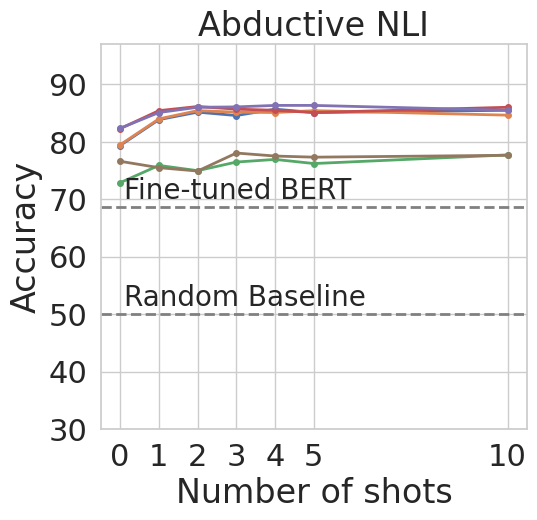
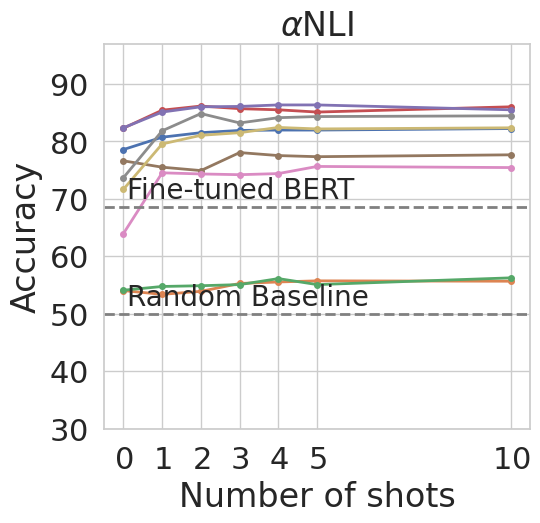
add mistral/gemma + fixes to text

Changed region(s): [[0.0, 0.0, 0.9832, 0.9846]]

diff --git a/results.tex b/results.tex
@@ -15,7 +15,7 @@ We present results for three major settings:
 With the goal to get an overall estimate of the difficulty of the task and the extent to which it can discriminate models, we first consider the performance of fully pre-trained models from the respective model series.
 For each of the models, we compute results with variable number of shots.
 We report the results in \cref{fig:shot_performance}, along with a chance baseline and the results of a fine-tuned BERT model.
-For all models, we observe rather poor zero-shot performance for all tasks, except AbductiveNLI, confirming previously reported results by \citet{ohmer2024form} and \citet{weber-etal-2023-mind}, among others.
+For all models, we observe rather poor zero-shot performance for all tasks, except $\alpha$NLI, confirming previously reported results by \citet{ohmer2024form} and \citet{weber-etal-2023-mind}, among others.
 When more shots are added performance starkly improves.
 Even with just one shot, the performance is significantly better than the zero shot accuracy; Adding more than three or four examples in the few shots does not improve performance much and saturates till 10 shots. 
 Among the five benchmarks, the most challenging benchmark is ANLI.
@@ -24,7 +24,7 @@ Although the 70 and 405B models far outperform the finetuned BERT baseline, they
 In terms of discriminability, virtually all benchmarks provide a clear gap between the smaller and larger models.
 For example, for the Llama series, 405B performs the best followed by 70B and then the 8B. 
 Though these three models are trained on the same amount of text tokens, performance clearly improves with scale. 
-The exception to this pattern is AbductiveNLI, which appears to be near-saturated already at 70B scale, at a performance of around 85\%.
+The exception to this pattern is $\alpha$NLI, which appears to be near-saturated already at 70B scale, at a performance of around 85\%.
 We conclude, from these results, that the benchmarks under consideration provide a useful signal to compare trained-out models, though it is unclear to what extent their performance has saturated, a question that we discuss in more detail later in this paper (\cref{sec:}).
 
 % Another important thing to observe is the performance comparison with fine-tuned BERT. 
@@ -38,39 +38,40 @@ We conclude, from these results, that the benchmarks under consideration provide
     \begin{subfigure}[b]{\textwidth}
         \centering
         \includegraphics[width=0.8\textwidth]{figures/legend}
-        \vspace{-2mm}
+        % \vspace{-2mm}
     \end{subfigure}\\
-    \begin{subfigure}[b]{0.217\textwidth}
+    \begin{subfigure}[b]{0.32\textwidth}
     \centering
-    \includegraphics[height=3.2cm]{figures/anli}
+    \includegraphics[height=4.8cm]{figures/anli}
     \caption{ANLI}
     \end{subfigure}
     \label{fig:anli}
-    \begin{subfigure}[b]{0.19\textwidth}
+    \begin{subfigure}[b]{0.32\textwidth}
     \centering
-    \includegraphics[height=3.2cm, trim=25mm 0 0 0, clip]{figures/hansnli}
+    \includegraphics[height=4.8cm]{figures/hansnli}
     \caption{HansNLI}
     \label{fig:hansnli}
     \end{subfigure}
-    \begin{subfigure}[b]{0.19\textwidth}
+    \begin{subfigure}[b]{0.32\textwidth}
     \centering
-    \includegraphics[height=3.2cm, trim=25mm 0 0 0, clip]{figures/mnli_matched}
+    \includegraphics[height=4.8cm]{figures/mnli_matched}
     \caption{MNLI}
     \label{fig:mnli}
-    \end{subfigure}
-    \begin{subfigure}[b]{0.19\textwidth}
+    \end{subfigure}\\
     \centering
-    \includegraphics[height=3.2cm, trim=25mm 0 0 0, clip]{figures/snli}
+    \begin{subfigure}[b]{0.32\textwidth}
+    \centering
+    \includegraphics[height=4.8cm]{figures/snli}
     \caption{SNLI}
     \label{fig:snli}
     \end{subfigure}
-    \begin{subfigure}[b]{0.19\textwidth}
+    \begin{subfigure}[b]{0.32\textwidth}
     \centering
-    \includegraphics[height=3.2cm, trim=25mm 0 0 0, clip]{figures/abductivenli}
-    \caption{AbductiveNLI}
+    \includegraphics[height=4.8cm]{figures/abductivenli}
+    \caption{$\alpha$NLI}
     \label{fig:abductivenli}
     \end{subfigure}
-    \caption{\textbf{Performance across shots.} We show performance across shots for 6 trained-out models, for ANLI, HANS, MNLI, SNLI and AbductiveNLI.}\label{fig:shot_performance}
+    \caption{\textbf{Performance across shots.} We show performance across shots for 6 trained-out models, for ANLI, HANS, MNLI, SNLI and $\alpha$NLI.}\label{fig:shot_performance}
 \end{figure*}
 
 % \subsection{Performance development over training}
@@ -82,7 +83,7 @@ The details of the pre-training mix are provided in \cref{sec:appendix}.
 
 \paragraph{Development during training} In \cref{fig:performance_training}, we show how (four-shot) performance develops during training.
 We see that for most benchmarks, the 8B and 70B model quickly start to diverge.
-The 70B model starts improving after around 250B tokens, for ANLI and Abductive NLI, it crosses fine-tuned BERT performance after around 500B tokens.
+The 70B model starts improving after around 250B tokens, for ANLI and $\alpha$NLI, it crosses fine-tuned BERT performance after around 500B tokens.
 On the other hand, the development of performance for the 8B model is slow, at this scale not exceeding chance accuracy for HansNLI, MNLI, and SNLI. 
 From the final model performance of 8B depicted in Figure \cref{fig:shot_performance}, we can conclude that the 8B model improves fairly late during the training stage. 
 We did not have the budget to do the full pre-training run, but longer training definitely seems to help on NLI tasks, further confirming the claim that NLI models can still provide a helpful signal.
@@ -171,15 +172,15 @@ In \cref{tab:monotonicity}, we can see that, despite the benchmarks' moderate si
 \paragraph{Q1: Does NLI provide signal for LLMs?}
 We show \begin{enumerate}
     \item curves + scores on trained-out models.  Conclusion: ? Should say something about whether it is separating models in early stages of training, and whether it is monotonic, how much variance etc.
-    \item Trained out model scores. Tentative conclusion (pending numbers): with the exception of abductive NLI, these datasets allow to distiguish models of different sizes. Doesn't work at all with zero-shot (which can explain some previous results?), but with one or two shots we get decent scores. ANLI seems to be the most challenging with around 70\% accuracy on the 405B model.
+    \item Trained out model scores. Tentative conclusion (pending numbers): with the exception of $\alpha$NLI, these datasets allow to distiguish models of different sizes. Doesn't work at all with zero-shot (which can explain some previous results?), but with one or two shots we get decent scores. ANLI seems to be the most challenging with around 70\% accuracy on the 405B model.
     \item Ablations: conclusion??
 \end{enumerate}
 
 \section{Analysis with ChaosNLI}
 
-\citet{nie-etal-2020-learn} release the ChaosNLI dataset, which is comprised of human annotations for a subset of MNLI, SNLI, and AbductiveNLI. They collect 100 human annotations for 3113 samples for MNLI and SNLI, and 1532 samples in AbductiveNLI. In this section, we analyse the performance of models with respect to the majority labels and entropy of the label distribution according to the human annotators.
+\citet{nie-etal-2020-learn} release the ChaosNLI dataset, which is comprised of human annotations for a subset of MNLI, SNLI, and $\alpha$NLI. They collect 100 human annotations for 3113 samples for MNLI and SNLI, and 1532 samples in $\alpha$NLI. In this section, we analyse the performance of models with respect to the majority labels and entropy of the label distribution according to the human annotators.
 
-We first look at the change in accuracy when we change the ground truth labels to majority labels according to the human annotators in ChaosNLI. We only consider the 4 shot setting for this. These results are presented in Table \ref{tab:chaos_acc}. The MNLI, SNLI, and AbductiveNLI subsets in ChaosNLI are represented as ChaosNLI-M, ChaosNLI-S, and ChaosNLI-A respectively. For all three subsets, we observe an increase in model performance by changing the ground truth based on the human majority. The only exception is the 70B model for ChaosNLI-S. This represents some level of agreement between the model prediction and human preference. And the updated ground truth according to the human preferences increases the model performance.
+We first look at the change in accuracy when we change the ground truth labels to majority labels according to the human annotators in ChaosNLI. We only consider the 4 shot setting for this. These results are presented in Table \ref{tab:chaos_acc}. The MNLI, SNLI, and $\alpha$NLI subsets in ChaosNLI are represented as ChaosNLI-M, ChaosNLI-S, and ChaosNLI-A respectively. For all three subsets, we observe an increase in model performance by changing the ground truth based on the human majority. The only exception is the 70B model for ChaosNLI-S. This represents some level of agreement between the model prediction and human preference. And the updated ground truth according to the human preferences increases the model performance.
 
 \begin{table*}
     \centering

diff --git a/methods.tex b/methods.tex
@@ -1,6 +1,6 @@
 \section{Setup}
 
-\paragraph{Benchmarks} In our experiments, we consider five NLI benchmarks: ANLI \citep{nie-etal-2020-adversarial}, HansNLI \citep{mccoy-etal-2019-right}, MNLI \citep{williams-etal-2018-broad}, SNLI \citep{bowman-etal-2015-large}, and AbductiveNLI \citep{bhagavatula2020abductive}. 
+\paragraph{Benchmarks} In our experiments, we consider five NLI benchmarks: ANLI \citep{nie-etal-2020-adversarial}, HansNLI \citep{mccoy-etal-2019-right}, MNLI \citep{williams-etal-2018-broad}, SNLI \citep{bowman-etal-2015-large}, and $\alpha$NLI \citep{bhagavatula2020abductive}. 
 The number of examples and labels for each dataset are present in Table \ref{tab:dataset}. 
 For MNLI and SNLI, we filter out the noisy test samples for which there is no ground truth available for the evaluation. % Dieuwke: not entirely clear to me what this means
 
@@ -25,7 +25,7 @@ We limit our analysis to pre-trained base models and leave the analysis on post-
     HansNLI & 30000 & 2 \\
     MNLI & 9815 & 3 \\
     SNLI & 9842 & 3 \\
-    AbductiveNLI & 1532 & 2 \\
+    $\alpha$NLI & 1532 & 2 \\
   \end{tabular}
 \caption{Dataset details}
 \label{tab:dataset}
